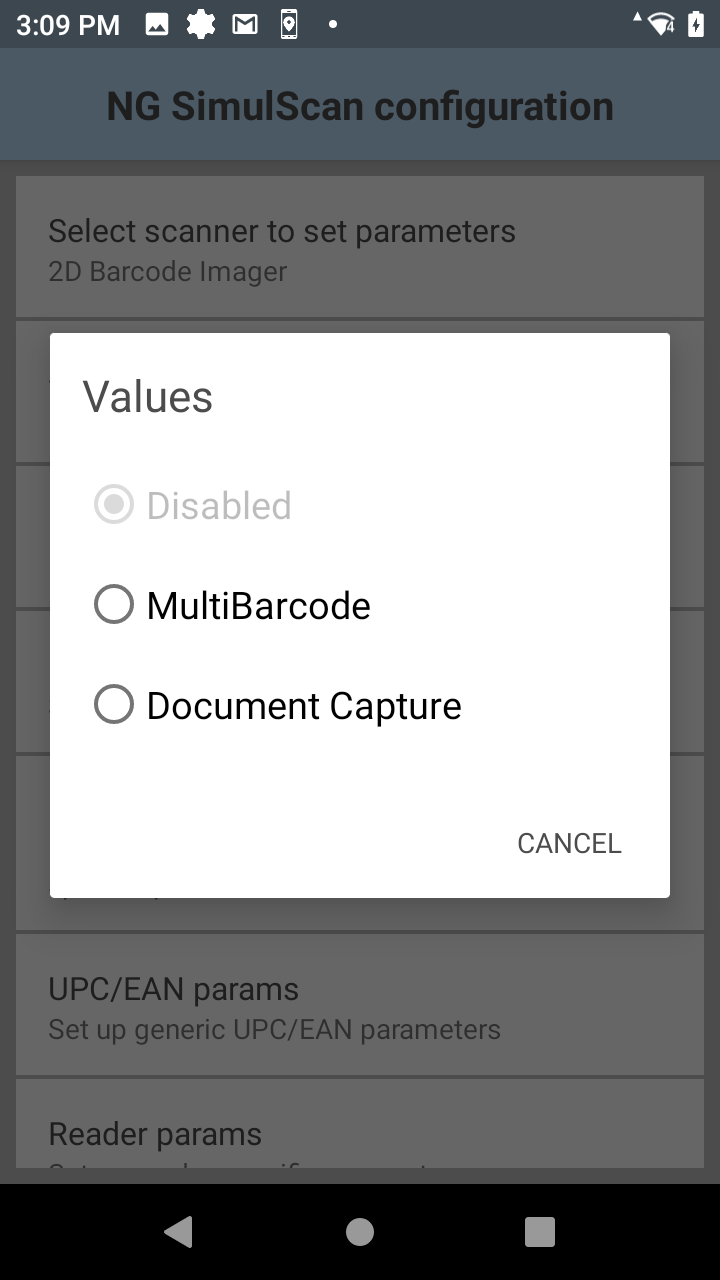
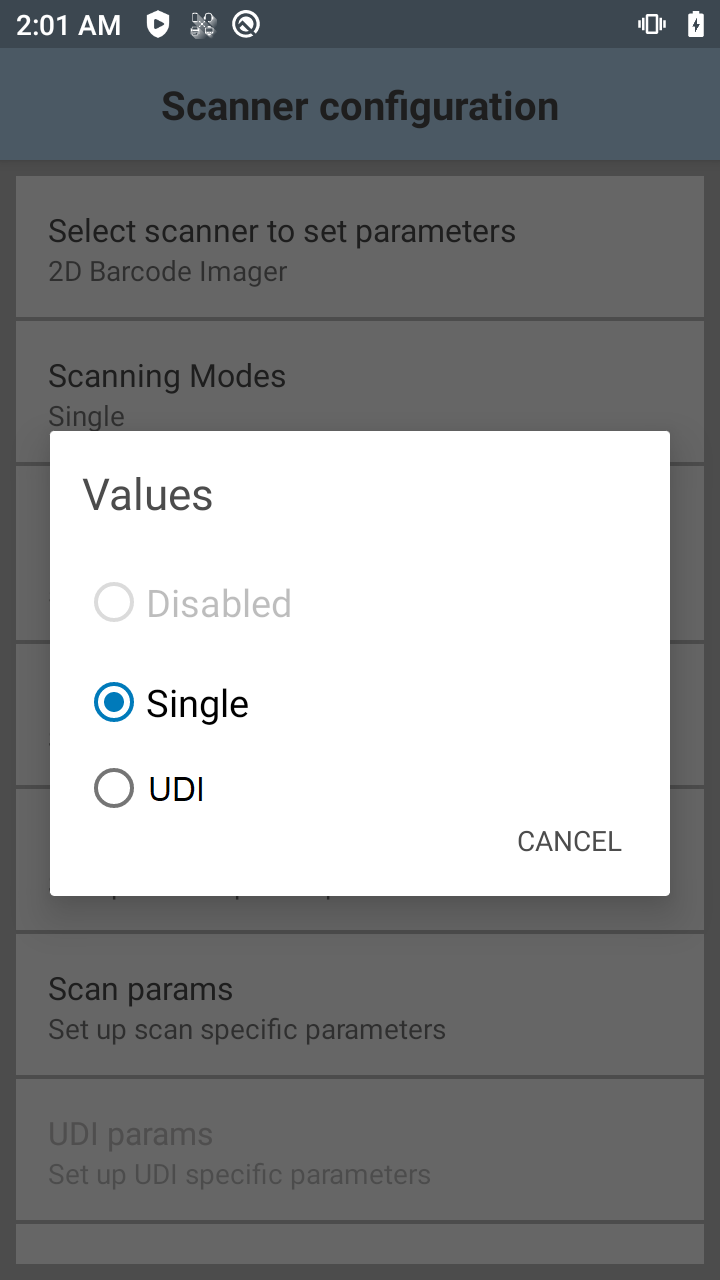
[TUT-41779] DW 8.1.45 - Updates to Scanning Modes

diff --git a/src/datawedge/8-1/guide/input/barcode/index.md b/src/datawedge/8-1/guide/input/barcode/index.md
@@ -134,6 +134,9 @@ _Scanner configuration_
 * **UDI -** scan Unique Device Identification (UDI) barcodes such as GS1, HIBCC and ICCBBA
 * **Disabled –** when a scanning mode, such as MultiBarcode or Document Capture, is selected in the **NG SimulScan Configuration** screen, scanning mode in this section is automatically disabled, preventing any other selection. 
 
+**Scanning Modes** exists within both **Scanner Configuration** and **NG SimulScan Configuration** sections. The availability of **Scanning Modes** options is interdependent on the option selected within each section:
+* If **Single** or **UDI** is selected as the **Scanning Mode** within **Scanner Configuration,** then **Scanning Modes** is disabled within **NG SimulScan Configuration.**  
+* If **Document Capture** or **Multibarcode** is selected for **Scanning Modes** within **NG SimulScan Configuration,** then **Scanning Modes** is disabled within **Scanner Configuration.**
 
 <table>
 
@@ -185,6 +188,10 @@ Aside from **[Scanning Modes](#scanningmodes)**, **[Document Capture Template](#
 * **[Basic MultiBarcode](#basicmultibarcodeparams)** / **[MultiBarcode](#basicmultibarcodeparams) -** multiple barcodes read in a single scan.  In DataWedge 8.1.45 or higher, this option is displayed as **MultiBarcode.**
 * **[SimulScan](#documentcapturetemplate)** / **[Document Capture](#documentcapturetemplate) -** document capture based on a specified custom template.  In DataWedge 8.1.45 or higher, this option is displayed as **Document Capture.** 
 * **Disabled –** when a scanning mode, such as **Single** or **UDI,** is selected in the **Scanner Configuration** section, scanning mode is automatically disabled in **NG SimulScan Configuration,** preventing any other selection.
+
+**Scanning Modes** exists within both **Scanner Configuration** and **NG SimulScan Configuration** sections. The availability of **Scanning Modes** options is interdependent on the option selected within each section:
+* If **Single** or **UDI** is selected as the **Scanning Mode** within **Scanner Configuration,** then **Scanning Modes** is disabled within **NG SimulScan Configuration.**  
+* If **Document Capture** or **Multibarcode** is selected for **Scanning Modes** within **NG SimulScan Configuration,** then **Scanning Modes** is disabled within **Scanner Configuration.**
 
 <table>
 
@@ -1241,8 +1248,6 @@ _**Note:** Same performance from Effort Level 1 to Effort Level 3._
 
 * **Static Reticle -** Enables the viewfinder and a red reticle (cross-hairs) in the center of the screen to aid in positioning the barcode for scanning. **This parameter is supported only when the Camera is used for scanning**.
 
-**Scanning Modes -** Used to select between Single (normal), [UDI](#udiparams) and [Basic MultiBarcode](#multibarcodeparams) modes. <!--[UDI mode](#udiparams) acquires multiple simultaneous inputs as specified in the selected Universal Device Identifier UDI parameter(s). [Basic MultiBarcode mode](#multibarcodeparams) acquires 2-10 barcodes with each scan as specified in [Basic MultiBarcode params](#multibarcodeparams). **Default=5**.-->
-
 **Zoom -** Required for decoding DotCode barcodes. User needs to set Camera Zoom value to 2 on the following devices: MC33, TC51/TC56, TC70x/TC75x, VC80x, TC52/TC57, TC72/TC77, PS20. If Camera Zoom is set to any value other than 2 on these devices, it can negatively impact the decoding of specific DotCode barcodes. Parameter values: 1 - 8. **Default=1**.
 
 **Keep Pairing Info After Reboot -** Enable/disable automatic re-connection to the connected Bluetooth scanner after device reboot. Applies only to connected Bluetooth scanners.
@@ -1334,14 +1339,14 @@ The Universal Device Identifier (UDI) parameter acquires multiple barcodes simul
 * **TC70x**
 * **TC75x**
 
-**Tap Scanning Modes to enable UDI decoding**: 
+Tap **Scanning Modes** within **Scanner Configuration** to enable UDI decoding: 
 
-<img style="height:350px" src="scanning_modes.png"/>
+<img style="height:350px" src="scanning_modes_sc.png"/>
 _When UDI scanning mode is enabled (as above)_... 
 <img style="height:350px" src="udi_params.png"/>
 ..._the selected UDI input parameter(s) will be used_.  
 
-**UDI Decoding Notes** 
+**UDI Decoding Notes:** 
 
 * **UDI decoding is supported only on the devices listed above**. 
 * **Output of collected UDI data might require settings adjustments** of the token-separation character and/or output order. See the [Keystroke Output guide](../../output/keystroke/#udidataoutput) guide for more information. 
